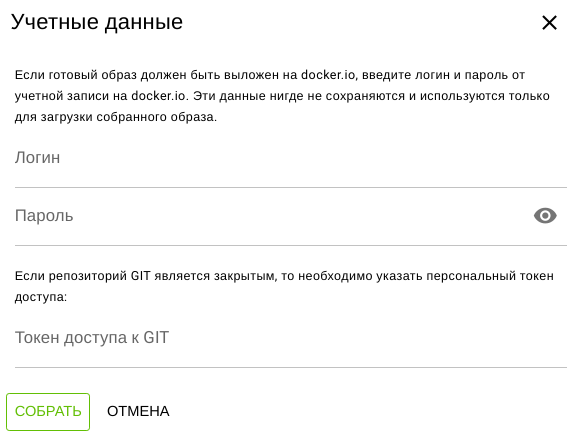
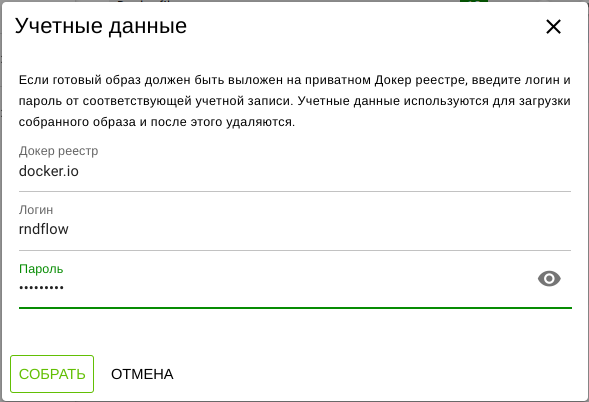
Update docker build instruction

Changed region(s): [[0.0, 0.0, 1.0, 1.0], [0.9062, 0.4776, 0.9688, 0.5373]]

diff --git a/src/instructions/docker.md b/src/instructions/docker.md
@@ -57,6 +57,15 @@
 
   ![Docker image editor](/images/common/dashboard_user_workspace_resources_docker_editor_not_build.png)
 
+
+Существет две возможности предоставления файлов для сборки образа:
+
+  - [Непосредственное создание файла Dockefile](#непосредственное-создание-фаила-сборки)
+
+  - [Использование внешнего Git репозитория с файлами сборки](#использование-внешнего-git-репозитория-с-фаилами-сборки)
+
+### Непосредственное создание файла сборки
+
 - В **Параметры сборки** выбрать **ЛОКАЛЬНАЯ ПАПКА**.
 
 - Ввести [команды создания образа][7] в редакторе **Dockerfile**.
@@ -67,11 +76,11 @@
 
 - Нажать кнопку **СОБРАТЬ**.
 
-- Ввести при необходимости логин и пароль к реестру (для публичного реестра платформы можно не вводить).
+- Убедиться, что определенный платформой Докер реестр корректен. При необходимости изменить.
 
-- Ввести при необходимости персональный токен для доступа к Git репозиторию.
+- Ввести, при необходимости, логин и пароль к Докер реестру, в который будет загружаться созданный образ.
 
-  > Описание создания персонального токена для [GitHub][8] и [GitLab][9].
+  > Если Докер реестр не требует авторизации для записи образов, то оставить данные поля незаполненными.
 
   ![Docker image editor](/images/common/dashboard_user_workspace_resources_docker_editor_auth.png)
 
@@ -81,7 +90,7 @@
 
   ![Docker image build process](/images/common/dashboard_user_workspace_resources_docker_editor_build.png)
 
-- После успешного завершения редактор примет вид
+- После успешного завершения редактор примет вид:
 
   ![Docker image editor after build](/images/common/dashboard_user_workspace_resources_docker_editor_аfter_build.png)
 
@@ -89,14 +98,29 @@
 
   ![Docker image after build](/images/common/dashboard_user_workspace_resources_docker_after_build.png)
 
-  **Использование внешнего Git репозитория с файлами сборки**
+### Использование внешнего Git репозитория с файлами сборки
 
-  - В **Параметры сборки** выбрать **GIT РЕПОЗИТОРИЙ**.
-  - Ввести URL публичного репозитория с файлами сборки Докер образа.
-  - Нажать кнопку **СОХРАНИТЬ**.
-  - Нажать кнопку **СОБРАТЬ**.
+- В **Параметры сборки** выбрать **GIT РЕПОЗИТОРИЙ**.
+- Ввести URL Git репозитория с файлами сборки Докер образа.
+- Нажать кнопку **СОХРАНИТЬ**.
+- Нажать кнопку **СОБРАТЬ**.
 
-  ![Docker image editor git context](/images/common/dashboard_user_workspace_resources_docker_editor_git.png)
+- Убедиться, что определенный платформой Докер реестр корректен. При необходимости изменить.
+
+- Ввести, при необходимости, логин и пароль к Докер реестру, в который будет загружаться созданный образ.
+
+  > Если Докер реестр не требует авторизации для записи образов, то оставить данные поля незаполненными.
+
+- В случае использования приватного Git репозитория для загрузки файлов сборки образа вести персональный токен для доступа.
+
+> Если Git репозиторий является публичным и не требует авторизации, то поле для ввода токена оставить незаполненным.
+> Описание создания персонального токена для [GitHub][8] и [GitLab][9].
+
+![Docker image editor git context](/images/common/dashboard_user_workspace_resources_docker_editor_git.png)
+
+- Нажать кнопку **СОБРАТЬ**.
+
+- Будет запущена сборка
 
 ## Создание Докер образа вне платформы
 
